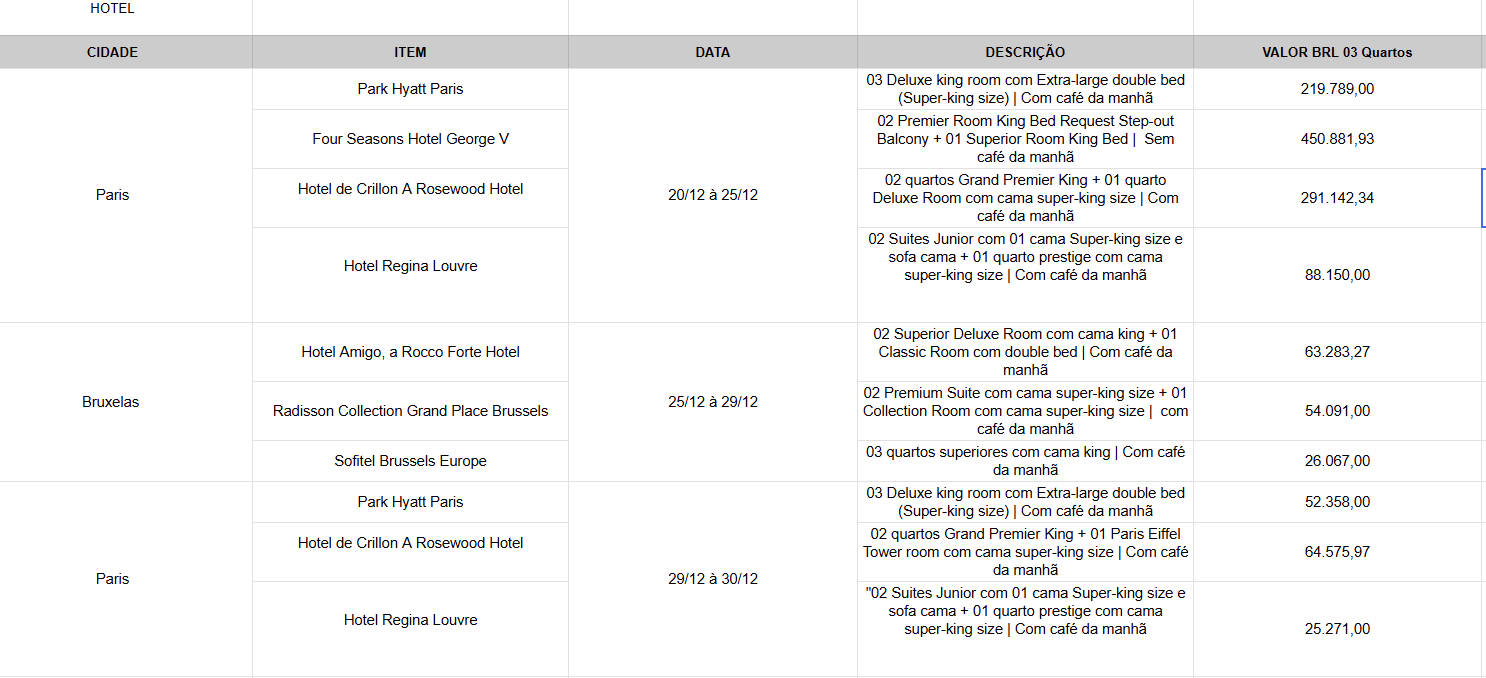
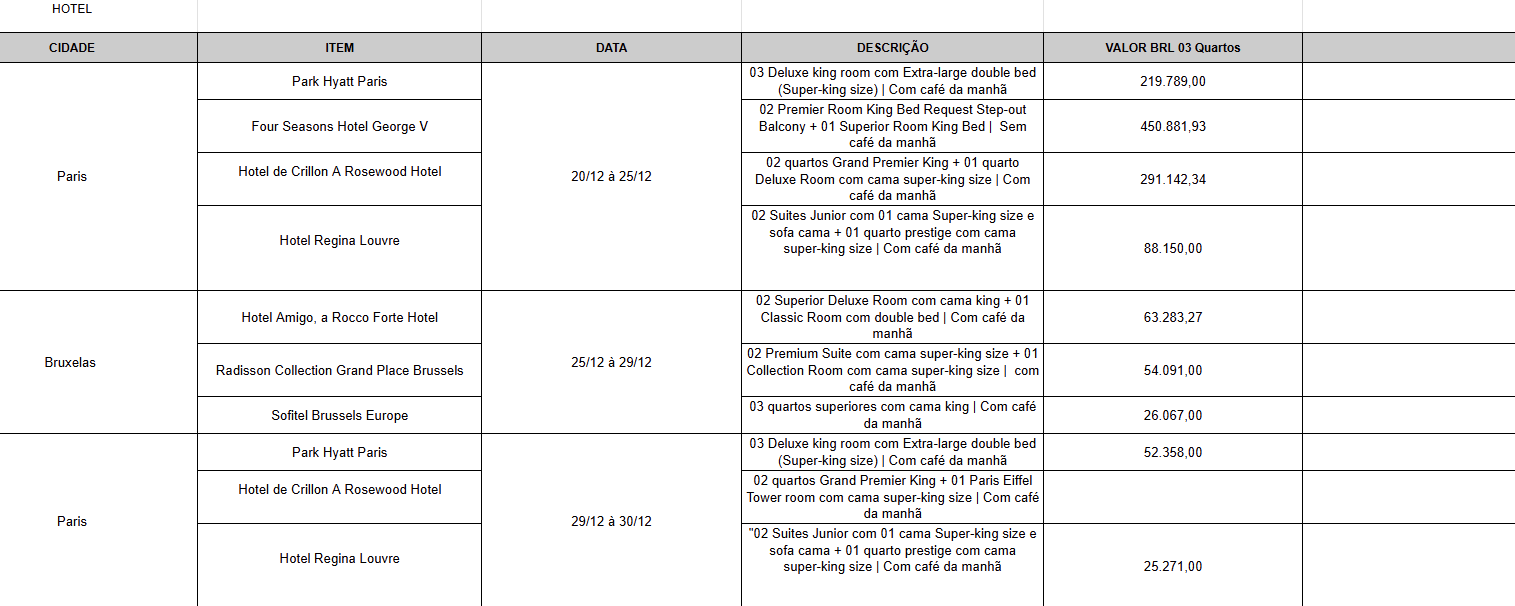
Fabio e Giovana: trens em 3x e passeios em 8x (planilha refeita)
Novos valores de trens (à vista / 3x) e passeios (à vista / 8x); hotéis iguais.
Crillon da última noite veio sem valor: mantido o anterior, a confirmar.
Faixa à vista R$ 156.342,00–596.703,17; parcelado R$ 158.176,00–598.707,17.

Claude-Session: https://claude.ai/code/session_01AaMdZyqdA5pyaEQqEQ4NjR

diff --git a/cotacoes/fabio-giovana-paris-belgica/src/index.html b/cotacoes/fabio-giovana-paris-belgica/src/index.html
@@ -201,16 +201,16 @@ td .sub{display:block;font-size:.74rem;color:var(--muted);font-weight:400}
     <span class="eyebrow">Transporte</span>
     <h2>Trens</h2>
     <div class="accent-line"></div>
-    <p class="note" style="margin-top:16px">Trens diretos, tarifa promocional (<i>discounted price</i>). Pagamento <b>à vista</b> ou <b>parcelado em até 6x</b>; o parcelado tem valor próprio, informado ao lado.</p>
+    <p class="note" style="margin-top:16px">Trens diretos, tarifa promocional (<i>discounted price</i>). Pagamento <b>à vista</b> ou <b>parcelado em até 3x</b>; o parcelado tem valor próprio, informado ao lado.</p>
     <div class="tbl-wrap"><table>
-      <tr class="head-row"><td>Trecho</td><td>Horário</td><td class="v">À vista</td><td class="v">Parcelado em 6x</td></tr>
-      <tr><td><b>Paris → Bruxelas</b><span class="sub">25/12 · direto · tarifa promocional</span></td><td>14:23 Paris Gare du Nord → 15:47 Bruxelas-Midi</td><td class="v">R$ 2.504</td><td class="v">R$ 2.805<span class="sub">6x de R$ 467,50</span></td></tr>
-      <tr><td><b>Bruxelas → Bruges</b><span class="sub">26/12 · direto · tarifa promocional</span></td><td>08:20 Bruxelas-Central → 09:26 Bruges</td><td class="v">R$ 1.067</td><td class="v">R$ 1.196<span class="sub">6x de R$ 199,33</span></td></tr>
-      <tr><td><b>Bruges → Bruxelas</b><span class="sub">26/12 · direto · tarifa promocional</span></td><td>16:59 Bruges → 18:00 Bruxelas-Central</td><td class="v">R$ 1.011</td><td class="v">R$ 1.133<span class="sub">6x de R$ 188,83</span></td></tr>
-      <tr><td><b>Bruxelas → Antuérpia</b><span class="sub">27/12 · direto · tarifa promocional</span></td><td>08:49 Bruxelas-Central → 09:42 Antuérpia-Central</td><td class="v">R$ 537</td><td class="v">R$ 602<span class="sub">6x de R$ 100,33</span></td></tr>
-      <tr><td><b>Antuérpia → Bruxelas</b><span class="sub">27/12 · direto · tarifa promocional</span></td><td>17:07 Antuérpia-Central → 17:58 Bruxelas-Central</td><td class="v">R$ 537</td><td class="v">R$ 602<span class="sub">6x de R$ 100,33</span></td></tr>
-      <tr><td><b>Bruxelas → Paris</b><span class="sub">29/12 · direto · tarifa promocional</span></td><td>10:13 Bruxelas-Midi → 11:35 Paris Gare du Nord</td><td class="v">R$ 4.444</td><td class="v">R$ 4.977<span class="sub">6x de R$ 829,50</span></td></tr>
-      <tr class="total-row"><td colspan="2"><b>Total dos 6 trens</b></td><td class="v">R$ 10.100</td><td class="v">R$ 11.315<span class="sub">6x de R$ 1.885,83</span></td></tr>
+      <tr class="head-row"><td>Trecho</td><td>Horário</td><td class="v">À vista</td><td class="v">Parcelado em 3x</td></tr>
+      <tr><td><b>Paris → Bruxelas</b><span class="sub">25/12 · direto · tarifa promocional</span></td><td>14:23 Paris Gare du Nord → 15:47 Bruxelas-Midi</td><td class="v">R$ 2.399</td><td class="v">R$ 2.580<span class="sub">3x de R$ 860,00</span></td></tr>
+      <tr><td><b>Bruxelas → Bruges</b><span class="sub">26/12 · direto · tarifa promocional</span></td><td>08:20 Bruxelas-Central → 09:26 Bruges</td><td class="v">R$ 1.023</td><td class="v">R$ 1.100<span class="sub">3x de R$ 366,67</span></td></tr>
+      <tr><td><b>Bruges → Bruxelas</b><span class="sub">26/12 · direto · tarifa promocional</span></td><td>16:59 Bruges → 18:00 Bruxelas-Central</td><td class="v">R$ 969</td><td class="v">R$ 1.043<span class="sub">3x de R$ 347,67</span></td></tr>
+      <tr><td><b>Bruxelas → Antuérpia</b><span class="sub">27/12 · direto · tarifa promocional</span></td><td>08:49 Bruxelas-Central → 09:42 Antuérpia-Central</td><td class="v">R$ 515</td><td class="v">R$ 554<span class="sub">3x de R$ 184,67</span></td></tr>
+      <tr><td><b>Antuérpia → Bruxelas</b><span class="sub">27/12 · direto · tarifa promocional</span></td><td>17:07 Antuérpia-Central → 17:58 Bruxelas-Central</td><td class="v">R$ 515</td><td class="v">R$ 554<span class="sub">3x de R$ 184,67</span></td></tr>
+      <tr><td><b>Bruxelas → Paris</b><span class="sub">29/12 · direto · tarifa promocional</span></td><td>10:13 Bruxelas-Midi → 11:35 Paris Gare du Nord</td><td class="v">R$ 4.259</td><td class="v">R$ 4.581<span class="sub">3x de R$ 1.527,00</span></td></tr>
+      <tr class="total-row"><td colspan="2"><b>Total dos 6 trens</b></td><td class="v">R$ 9.680</td><td class="v">R$ 10.412<span class="sub">3x de R$ 3.470,67</span></td></tr>
     </table></div>
   </section>
 
@@ -218,11 +218,11 @@ td .sub{display:block;font-size:.74rem;color:var(--muted);font-weight:400}
     <span class="eyebrow">Experiências</span>
     <h2>Passeios</h2>
     <div class="accent-line"></div>
-    <p class="note" style="margin-top:16px">Passeios privativos a partir de Paris. Pagamento <b>à vista</b> ou <b>parcelado em até 6x</b>. Os dois passeios de <b>23/12</b> (opções 1 e 2) são alternativos: <b>escolher 1</b>.</p>
-    <div class="svc"><div class="ic"><svg viewBox="0 0 24 24" fill="none" stroke="currentColor" stroke-width="2"><path d="M12 3l2.6 5.6 6 .7-4.5 4.1 1.2 6-5.3-3-5.3 3 1.2-6L3.4 9.3l6-.7z"/></svg></div><div><div class="t">Disneyland Paris</div><div class="d">Passeio privativo de ida e volta à Disneyland Paris. Não inclui o ingresso.</div></div><div class="dt">21/12<br><span style="color:var(--green)">R$ 1.848 à vista</span><br><span style="font-weight:500;font-size:.74rem">ou R$ 2.070 em 6x (6x de R$ 345,00)</span></div></div>
-    <div class="svc"><div class="ic"><svg viewBox="0 0 24 24" fill="none" stroke="currentColor" stroke-width="2"><path d="M12 3l2.6 5.6 6 .7-4.5 4.1 1.2 6-5.3-3-5.3 3 1.2-6L3.4 9.3l6-.7z"/></svg></div><div><div class="t">Palácio de Versalhes</div><div class="d">Passeio privativo de ida e volta ao Palácio de Versalhes. Não inclui o ingresso.</div></div><div class="dt">22/12<br><span style="color:var(--green)">R$ 1.628 à vista</span><br><span style="font-weight:500;font-size:.74rem">ou R$ 1.823 em 6x (6x de R$ 303,83)</span></div></div>
-    <div class="svc"><div class="ic"><svg viewBox="0 0 24 24" fill="none" stroke="currentColor" stroke-width="2"><path d="M12 3l2.6 5.6 6 .7-4.5 4.1 1.2 6-5.3-3-5.3 3 1.2-6L3.4 9.3l6-.7z"/></svg></div><div><div class="t">Natal no Castelo de Vaux-le-Vicomte · opção 1</div><div class="d">Passeio privativo de ida e volta, de meio dia, ao Castelo de Vaux-le-Vicomte, decorado para o Natal. Não inclui o ingresso.</div></div><div class="dt">23/12<br><span style="color:var(--green)">R$ 3.698 à vista</span><br><span style="font-weight:500;font-size:.74rem">ou R$ 4.142 em 6x (6x de R$ 690,33)</span></div></div>
-    <div class="svc"><div class="ic"><svg viewBox="0 0 24 24" fill="none" stroke="currentColor" stroke-width="2"><path d="M12 3l2.6 5.6 6 .7-4.5 4.1 1.2 6-5.3-3-5.3 3 1.2-6L3.4 9.3l6-.7z"/></svg></div><div><div class="t">Honfleur e Deauville · opção 2</div><div class="d">Passeio privativo de ida e volta à Normandia, combinando o porto de Honfleur e a cidade balneária de Deauville.</div></div><div class="dt">23/12<br><span style="color:var(--green)">R$ 4.806 à vista</span><br><span style="font-weight:500;font-size:.74rem">ou R$ 5.384 em 6x (6x de R$ 897,33)</span></div></div>
+    <p class="note" style="margin-top:16px">Passeios privativos a partir de Paris. Pagamento <b>à vista</b> ou <b>parcelado em até 8x</b>; o parcelado tem valor próprio. Os dois passeios de <b>23/12</b> (opções 1 e 2) são alternativos: <b>escolher 1</b>.</p>
+    <div class="svc"><div class="ic"><svg viewBox="0 0 24 24" fill="none" stroke="currentColor" stroke-width="2"><path d="M12 3l2.6 5.6 6 .7-4.5 4.1 1.2 6-5.3-3-5.3 3 1.2-6L3.4 9.3l6-.7z"/></svg></div><div><div class="t">Disneyland Paris</div><div class="d">Passeio privativo de ida e volta à Disneyland Paris. Não inclui o ingresso.</div></div><div class="dt">21/12<br><span style="color:var(--green)">R$ 1.848 à vista</span><br><span style="font-weight:500;font-size:.74rem">ou R$ 2.132 em 8x (8x de R$ 266,50)</span></div></div>
+    <div class="svc"><div class="ic"><svg viewBox="0 0 24 24" fill="none" stroke="currentColor" stroke-width="2"><path d="M12 3l2.6 5.6 6 .7-4.5 4.1 1.2 6-5.3-3-5.3 3 1.2-6L3.4 9.3l6-.7z"/></svg></div><div><div class="t">Palácio de Versalhes</div><div class="d">Passeio privativo de ida e volta ao Palácio de Versalhes. Não inclui o ingresso.</div></div><div class="dt">22/12<br><span style="color:var(--green)">R$ 1.628 à vista</span><br><span style="font-weight:500;font-size:.74rem">ou R$ 1.878 em 8x (8x de R$ 234,75)</span></div></div>
+    <div class="svc"><div class="ic"><svg viewBox="0 0 24 24" fill="none" stroke="currentColor" stroke-width="2"><path d="M12 3l2.6 5.6 6 .7-4.5 4.1 1.2 6-5.3-3-5.3 3 1.2-6L3.4 9.3l6-.7z"/></svg></div><div><div class="t">Natal no Castelo de Vaux-le-Vicomte · opção 1</div><div class="d">Passeio privativo de ida e volta, de meio dia, ao Castelo de Vaux-le-Vicomte, decorado para o Natal. Não inclui o ingresso.</div></div><div class="dt">23/12<br><span style="color:var(--green)">R$ 3.698 à vista</span><br><span style="font-weight:500;font-size:.74rem">ou R$ 4.266 em 8x (8x de R$ 533,25)</span></div></div>
+    <div class="svc"><div class="ic"><svg viewBox="0 0 24 24" fill="none" stroke="currentColor" stroke-width="2"><path d="M12 3l2.6 5.6 6 .7-4.5 4.1 1.2 6-5.3-3-5.3 3 1.2-6L3.4 9.3l6-.7z"/></svg></div><div><div class="t">Honfleur e Deauville · opção 2</div><div class="d">Passeio privativo de ida e volta à Normandia, combinando o porto de Honfleur e a cidade balneária de Deauville.</div></div><div class="dt">23/12<br><span style="color:var(--green)">R$ 4.806 à vista</span><br><span style="font-weight:500;font-size:.74rem">ou R$ 5.544 em 8x (8x de R$ 693,00)</span></div></div>
     <div class="tnote">Os ingressos de Versalhes, da Disneyland e de Vaux-le-Vicomte <b>não estão incluídos</b>: compramos à parte, conforme a data escolhida.</div>
   </section>
 
@@ -268,26 +268,26 @@ td .sub{display:block;font-size:.74rem;color:var(--muted);font-weight:400}
     </table></div>
 
     <div class="tbl-wrap"><table>
-      <tr class="head-row"><td>Trens e passeios</td><td class="v">À vista</td><td class="v">Parcelado em 6x</td></tr>
+      <tr class="head-row"><td>Trens e passeios</td><td class="v">À vista</td><td class="v">Parcelado</td></tr>
       <tr class="sec-row"><td colspan="3">Trens · 6 trechos</td></tr>
-      <tr><td><b>Paris ⇄ Bruxelas, Bruges e Antuérpia</b><span class="sub">25/12 a 29/12</span></td><td class="v">R$ 10.100</td><td class="v">R$ 11.315<span class="sub">6x de R$ 1.885,83</span></td></tr>
+      <tr><td><b>Paris ⇄ Bruxelas, Bruges e Antuérpia</b><span class="sub">25/12 a 29/12</span></td><td class="v">R$ 9.680</td><td class="v">R$ 10.412<span class="sub">3x de R$ 3.470,67</span></td></tr>
       <tr class="sec-row"><td colspan="3">Passeios</td></tr>
-      <tr><td><b>Disneyland Paris</b><span class="sub">21/12</span></td><td class="v">R$ 1.848</td><td class="v">R$ 2.070<span class="sub">6x de R$ 345,00</span></td></tr>
-      <tr><td><b>Palácio de Versalhes</b><span class="sub">22/12</span></td><td class="v">R$ 1.628</td><td class="v">R$ 1.823<span class="sub">6x de R$ 303,83</span></td></tr>
-      <tr><td><b>Natal no Castelo de Vaux-le-Vicomte · opção 1</b><span class="sub">23/12 · escolher 1 para 23/12</span></td><td class="v">R$ 3.698</td><td class="v">R$ 4.142<span class="sub">6x de R$ 690,33</span></td></tr>
-      <tr><td><b>Honfleur e Deauville · opção 2</b><span class="sub">23/12 · escolher 1 para 23/12</span></td><td class="v">R$ 4.806</td><td class="v">R$ 5.384<span class="sub">6x de R$ 897,33</span></td></tr>
+      <tr><td><b>Disneyland Paris</b><span class="sub">21/12</span></td><td class="v">R$ 1.848</td><td class="v">R$ 2.132<span class="sub">8x de R$ 266,50</span></td></tr>
+      <tr><td><b>Palácio de Versalhes</b><span class="sub">22/12</span></td><td class="v">R$ 1.628</td><td class="v">R$ 1.878<span class="sub">8x de R$ 234,75</span></td></tr>
+      <tr><td><b>Natal no Castelo de Vaux-le-Vicomte · opção 1</b><span class="sub">23/12 · escolher 1 para 23/12</span></td><td class="v">R$ 3.698</td><td class="v">R$ 4.266<span class="sub">8x de R$ 533,25</span></td></tr>
+      <tr><td><b>Honfleur e Deauville · opção 2</b><span class="sub">23/12 · escolher 1 para 23/12</span></td><td class="v">R$ 4.806</td><td class="v">R$ 5.544<span class="sub">8x de R$ 693,00</span></td></tr>
     </table></div>
 
-    <div class="flval"><span class="lbl">Total estimado · à vista</span><div class="amt"><div class="t">R$ 156.762,00 – 597.123,17</div><div class="p">hotéis + trens + passeios, trens e passeios à vista</div></div></div>
-    <div class="flval" style="background:var(--green-soft)"><span class="lbl">Total estimado · parcelado</span><div class="amt"><div class="t">R$ 158.838,00 – 599.333,17</div><div class="p">hotéis em 10x sem juros + trens e passeios em 6x</div></div></div>
-    <p class="note"><b>Como é calculado:</b> Paris (R$ 88.150,00 – 450.881,93) + Bruxelas (R$ 26.067,00 – 63.283,27) + Paris (1 noite) (R$ 25.271,00 – 64.575,97) + trens (R$ 10.100 à vista ou R$ 11.315 em 6x) + Disney + Versalhes + 1 passeio de 23/12 (de R$ 7.174 a R$ 8.282 à vista; de R$ 8.035 a R$ 9.277 em 6x). O valor final depende dos hotéis e do passeio escolhidos.</p>
+    <div class="flval"><span class="lbl">Total estimado · à vista</span><div class="amt"><div class="t">R$ 156.342,00 – 596.703,17</div><div class="p">hotéis + trens + passeios, trens e passeios à vista</div></div></div>
+    <div class="flval" style="background:var(--green-soft)"><span class="lbl">Total estimado · parcelado</span><div class="amt"><div class="t">R$ 158.176,00 – 598.707,17</div><div class="p">hotéis em 10x sem juros + trens em 3x + passeios em 8x</div></div></div>
+    <p class="note"><b>Como é calculado:</b> Paris (R$ 88.150,00 – 450.881,93) + Bruxelas (R$ 26.067,00 – 63.283,27) + Paris (1 noite) (R$ 25.271,00 – 64.575,97) + trens (R$ 9.680 à vista ou R$ 10.412 em 3x) + Disney + Versalhes + 1 passeio de 23/12 (de R$ 7.174 a R$ 8.282 à vista; de R$ 8.276 a R$ 9.554 em 8x). O valor final depende dos hotéis e do passeio escolhidos.</p>
 
     <div class="pay">
       <div class="box">
         <h4>Condições de pagamento</h4>
         <p><b>Hotéis</b> — em até <b>10x sem juros</b></p>
-        <p><b>Trens</b> — à vista ou em até <b>6x</b> (valor parcelado próprio)</p>
-        <p><b>Passeios</b> — à vista ou em até <b>6x</b> (valor parcelado próprio)</p>
+        <p><b>Trens</b> — à vista ou em até <b>3x</b> (valor parcelado próprio)</p>
+        <p><b>Passeios</b> — à vista ou em até <b>8x</b> (valor parcelado próprio)</p>
       </div>
       <div class="box">
         <h4>Referência</h4>

diff --git a/cotacoes/fabio-giovana-paris-belgica/build.py b/cotacoes/fabio-giovana-paris-belgica/build.py
@@ -1,10 +1,12 @@
 #!/usr/bin/env python3
 """Gera src/index.html da cotação Paris & Bélgica — Fabio e Giovana (20 a 30/12/2026).
 
-Fontes (reenviadas em 05/11/2026, versão revista):
+Fontes (reenviadas em 05/11/2026, 3ª versão):
 - fonte/hoteis.png: Paris 20–25/12, Bruxelas 25–29/12, Paris 29–30/12; valores em BRL para 3 quartos.
-- fonte/trens-passeios.png: 6 trens e 4 passeios, com "preço à vista" e "preço para parcelamento em 06 vezes".
-Pagamento (agência): hotéis em até 10x sem juros; trens e passeios à vista ou parcelado em até 6x.
+- fonte/trens.png: 6 trens, "preço à vista" e "preço para parcelamento em 03 vezes".
+- fonte/passeios.png: 4 passeios, "preço à vista" e "preço para parcelamento em 08 vezes".
+Pagamento (agência): hotéis em até 10x sem juros; trens à vista ou em até 3x; passeios à vista ou em até 8x.
+Crillon na última noite veio sem valor na planilha de 05/11 (refeita): mantido R$ 64.575,97 da planilha anterior, a confirmar.
 Ano não consta: dezembro de 2026. O Hotel Amigo é o de Bruxelas (Tripadvisor 196130).
 CSS: style.part.html (template oficial) com poda das regras não usadas (prune.part.py).
 Fotos: Tripadvisor, classificação automática (fonte/cand.json, fotos.json).
@@ -70,21 +72,22 @@ CIDADES = [
     ], nota="Volta de Bruxelas na manhã de 29/12 e uma noite em Paris antes do embarque."),
 ]
 
-TRENS = [  # data, trecho, horário, à vista, parcelado 6x
-    ("25/12", "Paris → Bruxelas", "14:23 Paris Gare du Nord → 15:47 Bruxelas-Midi", 2504, 2805),
-    ("26/12", "Bruxelas → Bruges", "08:20 Bruxelas-Central → 09:26 Bruges", 1067, 1196),
-    ("26/12", "Bruges → Bruxelas", "16:59 Bruges → 18:00 Bruxelas-Central", 1011, 1133),
-    ("27/12", "Bruxelas → Antuérpia", "08:49 Bruxelas-Central → 09:42 Antuérpia-Central", 537, 602),
-    ("27/12", "Antuérpia → Bruxelas", "17:07 Antuérpia-Central → 17:58 Bruxelas-Central", 537, 602),
-    ("29/12", "Bruxelas → Paris", "10:13 Bruxelas-Midi → 11:35 Paris Gare du Nord", 4444, 4977),
+NT, NP = 3, 8  # parcelas: trens em até 3x, passeios em até 8x
+TRENS = [  # data, trecho, horário, à vista, parcelado 3x
+    ("25/12", "Paris → Bruxelas", "14:23 Paris Gare du Nord → 15:47 Bruxelas-Midi", 2399, 2580),
+    ("26/12", "Bruxelas → Bruges", "08:20 Bruxelas-Central → 09:26 Bruges", 1023, 1100),
+    ("26/12", "Bruges → Bruxelas", "16:59 Bruges → 18:00 Bruxelas-Central", 969, 1043),
+    ("27/12", "Bruxelas → Antuérpia", "08:49 Bruxelas-Central → 09:42 Antuérpia-Central", 515, 554),
+    ("27/12", "Antuérpia → Bruxelas", "17:07 Antuérpia-Central → 17:58 Bruxelas-Central", 515, 554),
+    ("29/12", "Bruxelas → Paris", "10:13 Bruxelas-Midi → 11:35 Paris Gare du Nord", 4259, 4581),
 ]
-PASSEIOS = [  # data, nome, descrição, à vista, 6x, grupo
-    ("21/12", "Disneyland Paris", "Passeio privativo de ida e volta à Disneyland Paris. Não inclui o ingresso.", 1848, 2070, None),
-    ("22/12", "Palácio de Versalhes", "Passeio privativo de ida e volta ao Palácio de Versalhes. Não inclui o ingresso.", 1628, 1823, None),
+PASSEIOS = [  # data, nome, descrição, à vista, parcelado 8x, grupo
+    ("21/12", "Disneyland Paris", "Passeio privativo de ida e volta à Disneyland Paris. Não inclui o ingresso.", 1848, 2132, None),
+    ("22/12", "Palácio de Versalhes", "Passeio privativo de ida e volta ao Palácio de Versalhes. Não inclui o ingresso.", 1628, 1878, None),
     ("23/12", "Natal no Castelo de Vaux-le-Vicomte · opção 1",
-     "Passeio privativo de ida e volta, de meio dia, ao Castelo de Vaux-le-Vicomte, decorado para o Natal. Não inclui o ingresso.", 3698, 4142, "23"),
+     "Passeio privativo de ida e volta, de meio dia, ao Castelo de Vaux-le-Vicomte, decorado para o Natal. Não inclui o ingresso.", 3698, 4266, "23"),
     ("23/12", "Honfleur e Deauville · opção 2",
-     "Passeio privativo de ida e volta à Normandia, combinando o porto de Honfleur e a cidade balneária de Deauville.", 4806, 5384, "23"),
+     "Passeio privativo de ida e volta à Normandia, combinando o porto de Honfleur e a cidade balneária de Deauville.", 4806, 5544, "23"),
 ]
 
 
@@ -132,19 +135,19 @@ hoteis_html = "\n".join(
 
 trens_rows = "\n".join(
     f'      <tr><td><b>{t[1]}</b><span class="sub">{t[0]} · direto · tarifa promocional</span></td><td>{t[2]}</td>'
-    f'<td class="v">R$ {brl(t[3], False)}</td><td class="v">R$ {brl(t[4], False)}<span class="sub">{parc(t[4], 6)}</span></td></tr>'
+    f'<td class="v">R$ {brl(t[3], False)}</td><td class="v">R$ {brl(t[4], False)}<span class="sub">{parc(t[4], NT)}</span></td></tr>'
     for t in TRENS)
 trens_rows += (f'\n      <tr class="total-row"><td colspan="2"><b>Total dos 6 trens</b></td><td class="v">R$ {brl(TV, False)}</td>'
-               f'<td class="v">R$ {brl(TP, False)}<span class="sub">{parc(TP, 6)}</span></td></tr>')
+               f'<td class="v">R$ {brl(TP, False)}<span class="sub">{parc(TP, NT)}</span></td></tr>')
 
 pass_html = "\n".join(
     f'    <div class="svc"><div class="ic">{STAR}</div><div><div class="t">{p[1]}</div><div class="d">{p[2]}</div></div>'
     f'<div class="dt">{p[0]}<br><span style="color:var(--green)">R$ {brl(p[3], False)} à vista</span><br>'
-    f'<span style="font-weight:500;font-size:.74rem">ou R$ {brl(p[4], False)} em 6x ({parc(p[4], 6)})</span></div></div>'
+    f'<span style="font-weight:500;font-size:.74rem">ou R$ {brl(p[4], False)} em {NP}x ({parc(p[4], NP)})</span></div></div>'
     for p in PASSEIOS)
 pass_rows = "\n".join(
     f'      <tr><td><b>{p[1]}</b><span class="sub">{p[0]}{" · escolher 1 para 23/12" if p[5] else ""}</span></td>'
-    f'<td class="v">R$ {brl(p[3], False)}</td><td class="v">R$ {brl(p[4], False)}<span class="sub">{parc(p[4], 6)}</span></td></tr>'
+    f'<td class="v">R$ {brl(p[3], False)}</td><td class="v">R$ {brl(p[4], False)}<span class="sub">{parc(p[4], NP)}</span></td></tr>'
     for p in PASSEIOS)
 
 hotel_rows = "\n".join(
@@ -252,9 +255,9 @@ html = f"""<!DOCTYPE html>
     <span class="eyebrow">Transporte</span>
     <h2>Trens</h2>
     <div class="accent-line"></div>
-    <p class="note" style="margin-top:16px">Trens diretos, tarifa promocional (<i>discounted price</i>). Pagamento <b>à vista</b> ou <b>parcelado em até 6x</b>; o parcelado tem valor próprio, informado ao lado.</p>
+    <p class="note" style="margin-top:16px">Trens diretos, tarifa promocional (<i>discounted price</i>). Pagamento <b>à vista</b> ou <b>parcelado em até 3x</b>; o parcelado tem valor próprio, informado ao lado.</p>
     <div class="tbl-wrap"><table>
-      <tr class="head-row"><td>Trecho</td><td>Horário</td><td class="v">À vista</td><td class="v">Parcelado em 6x</td></tr>
+      <tr class="head-row"><td>Trecho</td><td>Horário</td><td class="v">À vista</td><td class="v">Parcelado em 3x</td></tr>
 {trens_rows}
     </table></div>
   </section>
@@ -263,7 +266,7 @@ html = f"""<!DOCTYPE html>
     <span class="eyebrow">Experiências</span>
     <h2>Passeios</h2>
     <div class="accent-line"></div>
-    <p class="note" style="margin-top:16px">Passeios privativos a partir de Paris. Pagamento <b>à vista</b> ou <b>parcelado em até 6x</b>. Os dois passeios de <b>23/12</b> (opções 1 e 2) são alternativos: <b>escolher 1</b>.</p>
+    <p class="note" style="margin-top:16px">Passeios privativos a partir de Paris. Pagamento <b>à vista</b> ou <b>parcelado em até 8x</b>; o parcelado tem valor próprio. Os dois passeios de <b>23/12</b> (opções 1 e 2) são alternativos: <b>escolher 1</b>.</p>
 {pass_html}
     <div class="tnote">Os ingressos de Versalhes, da Disneyland e de Vaux-le-Vicomte <b>não estão incluídos</b>: compramos à parte, conforme a data escolhida.</div>
   </section>
@@ -288,23 +291,23 @@ html = f"""<!DOCTYPE html>
     </table></div>
 
     <div class="tbl-wrap"><table>
-      <tr class="head-row"><td>Trens e passeios</td><td class="v">À vista</td><td class="v">Parcelado em 6x</td></tr>
+      <tr class="head-row"><td>Trens e passeios</td><td class="v">À vista</td><td class="v">Parcelado</td></tr>
       <tr class="sec-row"><td colspan="3">Trens · 6 trechos</td></tr>
-      <tr><td><b>Paris ⇄ Bruxelas, Bruges e Antuérpia</b><span class="sub">25/12 a 29/12</span></td><td class="v">R$ {brl(TV, False)}</td><td class="v">R$ {brl(TP, False)}<span class="sub">{parc(TP, 6)}</span></td></tr>
+      <tr><td><b>Paris ⇄ Bruxelas, Bruges e Antuérpia</b><span class="sub">25/12 a 29/12</span></td><td class="v">R$ {brl(TV, False)}</td><td class="v">R$ {brl(TP, False)}<span class="sub">{parc(TP, NT)}</span></td></tr>
       <tr class="sec-row"><td colspan="3">Passeios</td></tr>
 {pass_rows}
     </table></div>
 
     <div class="flval"><span class="lbl">Total estimado · à vista</span><div class="amt"><div class="t">R$ {brl(TOT_V[0])} – {brl(TOT_V[1])}</div><div class="p">hotéis + trens + passeios, trens e passeios à vista</div></div></div>
-    <div class="flval" style="background:var(--green-soft)"><span class="lbl">Total estimado · parcelado</span><div class="amt"><div class="t">R$ {brl(TOT_P[0])} – {brl(TOT_P[1])}</div><div class="p">hotéis em 10x sem juros + trens e passeios em 6x</div></div></div>
-    <p class="note"><b>Como é calculado:</b> {calc} + trens (R$ {brl(TV, False)} à vista ou R$ {brl(TP, False)} em 6x) + Disney + Versalhes + 1 passeio de 23/12 (de R$ {brl(PV_MIN, False)} a R$ {brl(PV_MAX, False)} à vista; de R$ {brl(PP_MIN, False)} a R$ {brl(PP_MAX, False)} em 6x). O valor final depende dos hotéis e do passeio escolhidos.</p>
+    <div class="flval" style="background:var(--green-soft)"><span class="lbl">Total estimado · parcelado</span><div class="amt"><div class="t">R$ {brl(TOT_P[0])} – {brl(TOT_P[1])}</div><div class="p">hotéis em 10x sem juros + trens em 3x + passeios em 8x</div></div></div>
+    <p class="note"><b>Como é calculado:</b> {calc} + trens (R$ {brl(TV, False)} à vista ou R$ {brl(TP, False)} em 3x) + Disney + Versalhes + 1 passeio de 23/12 (de R$ {brl(PV_MIN, False)} a R$ {brl(PV_MAX, False)} à vista; de R$ {brl(PP_MIN, False)} a R$ {brl(PP_MAX, False)} em 8x). O valor final depende dos hotéis e do passeio escolhidos.</p>
 
     <div class="pay">
       <div class="box">
         <h4>Condições de pagamento</h4>
         <p><b>Hotéis</b> — em até <b>10x sem juros</b></p>
-        <p><b>Trens</b> — à vista ou em até <b>6x</b> (valor parcelado próprio)</p>
-        <p><b>Passeios</b> — à vista ou em até <b>6x</b> (valor parcelado próprio)</p>
+        <p><b>Trens</b> — à vista ou em até <b>3x</b> (valor parcelado próprio)</p>
+        <p><b>Passeios</b> — à vista ou em até <b>8x</b> (valor parcelado próprio)</p>
       </div>
       <div class="box">
         <h4>Referência</h4>

diff --git a/cotacoes/fabio-giovana-paris-belgica/README.md b/cotacoes/fabio-giovana-paris-belgica/README.md
@@ -1,12 +1,13 @@
 # Fabio e Giovana · Paris & Bélgica (20 a 30/12/2026)
 
-- **Publicado:** https://cotacao-fabio-giovana-paris-belgica.vercel.app (05/11/2026, versão revista; Disney movida para 21/12).
+- **Publicado:** https://cotacao-fabio-giovana-paris-belgica.vercel.app (05/11/2026, 3ª versão: trens em 3x e passeios em 8x).
 - **Fontes:** `fonte/hoteis.png` (hotéis, BRL, 3 quartos) e `fonte/trens-passeios.png` (6 trens e 4 passeios, à vista e parcelado em 6x).
 - Pagamento: hotéis em até 10x sem juros; trens e passeios à vista ou em 6x (valor parcelado próprio, da planilha).
 - Hotel Amigo = Rocco Forte de Bruxelas (Tripadvisor 196130). O Hotel de la Ville (Roma) não entra.
 - Disney em 21/12 (passeio fixo, a pedido da agência). Em 23/12, Vaux-le-Vicomte (opção 1) ou Honfleur/Deauville (opção 2): escolher 1.
-- Versão revista: Sofitel R$ 26.067,00 com café; passeios Versalhes 1.628/1.823, Disney 1.848/2.070, Vaux 3.698/4.142, Honfleur 4.806/5.384 (todos em BRL, confirmado pela agência).
-- Faixa à vista R$ 156.762,00 – 597.123,17 · parcelado R$ 158.838,00 – 599.333,17.
+- 3ª versão (planilha refeita em 05/11): trens 2.399/2.580, 1.023/1.100, 969/1.043, 515/554, 515/554, 4.259/4.581 (à vista / 3x); passeios Disney 1.848/2.132, Versalhes 1.628/1.878, Vaux 3.698/4.266, Honfleur 4.806/5.544 (à vista / 8x). Hotéis iguais; todos em BRL.
+- Crillon na última noite (29–30/12) veio sem valor na planilha nova: mantido R$ 64.575,97 da planilha anterior, a confirmar com a agência.
+- Faixa à vista R$ 156.342,00 – 596.703,17 · parcelado R$ 158.176,00 – 598.707,17.
 
 ## Gerar
 
